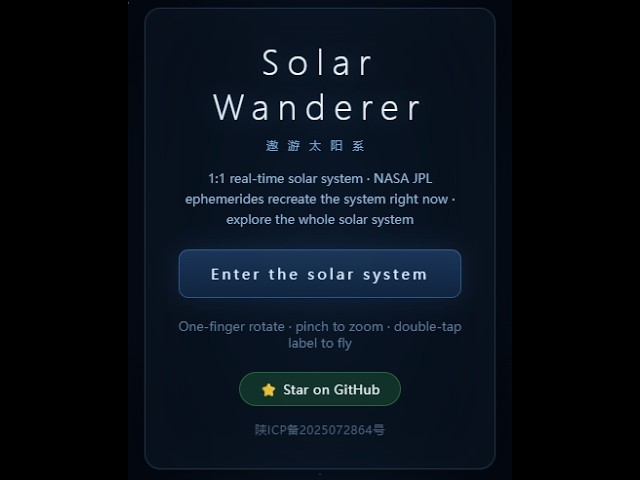
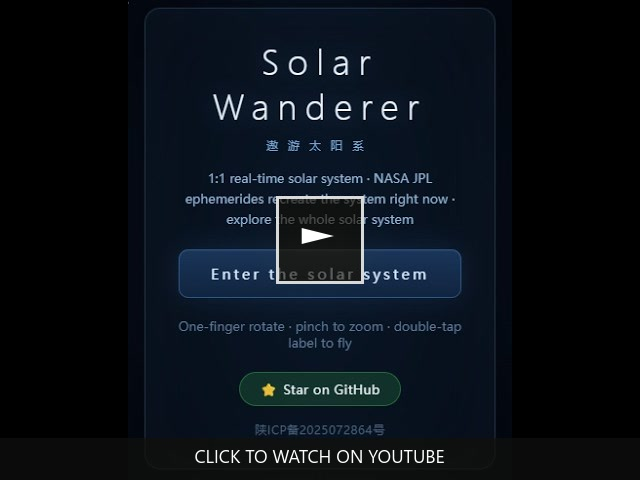
docs(README): enhance demo video section with clickable thumbnail
Updated the README to improve the demo video section by adding a clickable thumbnail that links directly to the YouTube video. The description was also revised to clarify that the thumbnail is interactive, enhancing user engagement and accessibility. Additionally, the demo link was updated to promote the live app.

Changed region(s): [[0.4062, 0.4062, 0.5938, 0.5938], [0.2812, 0.9375, 0.6875, 1.0]]

diff --git a/README.md b/README.md
@@ -15,9 +15,19 @@ Powered by NASA JPL ephemerides. The planets are where they are **right now**.
 
 <br>
 
-[![Solar Wanderer demo — click to watch on YouTube](docs/sdlc/screenshots/example/youtube-demo-poster.jpg)](https://youtu.be/3rwShi6oF0o)
+### ▶ Demo video
 
-<sub>▲ Click the thumbnail to watch on YouTube. [**Open the live demo →**](https://sw.icodestar.net)</sub>
+**This poster is a link to a YouTube video** — not a static screenshot. Click it (or the button below) to watch the full walkthrough.
+
+<a href="https://youtu.be/3rwShi6oF0o" title="Play Solar Wanderer demo on YouTube">
+  <img src="docs/sdlc/screenshots/example/youtube-demo-poster.jpg" alt="▶ Click to play — Solar Wanderer demo video on YouTube" width="720">
+</a>
+
+<br>
+
+[![Watch demo on YouTube](https://img.shields.io/badge/▶%20Watch%20Demo%20Video-YouTube-FF0000?style=for-the-badge&logo=youtube&logoColor=white)](https://youtu.be/3rwShi6oF0o)
+
+<sub>Opens the demo recording on YouTube in your browser · Prefer to explore yourself? [**Launch the live app →**](https://sw.icodestar.net)</sub>
 
 </div>
 
